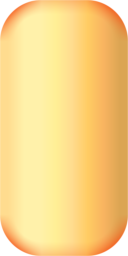
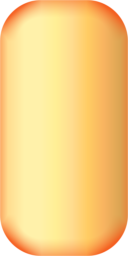
Options pages: bracket A baked (even thickness: anti-aliased rects, reaches lower), names-only dimmed preview, redder scroll handle, sub-option marks (mockup switch)
Claude-Session: https://claude.ai/code/session_015nceCycsuLaNfC7iU5aic3

Changed region(s): [[0.0, 0.125, 0.0312, 0.875], [0.0312, 0.9062, 0.5312, 1.0], [0.0312, 0.0, 0.5312, 0.0938]]

diff --git a/src/kamite/options_overlay.cpp b/src/kamite/options_overlay.cpp
@@ -97,25 +97,26 @@ namespace kamite::options_overlay
         // page's cursor and names after it as the list's are after the screen's edge; its right end at the text area's
         // margin, at most kPageWidth on. Values sit in a block at the right, choices centred in equal slots.
         constexpr float kSplitAspect = 1.595f;
-        constexpr float kBracketX = 240.0f, kBracketTick = 9.0f, kBracketGap = 7.0f, kBracketReach = 12.0f;
+        constexpr float kBracketX = 240.0f, kBracketTick = 9.0f, kBracketGap = 7.0f, kBracketReach = 17.0f;
         constexpr float kPageCursorGap = kLabelX - kCursorX, kPageNameGap = kLabelX - kCursorX + kLabelX - kCursorX;
         constexpr float kPageWidth = 470.0f, kValueBlock = 136.0f, kScrollWidth = 8.0f, kScrollGap = 14.0f;
         constexpr float kSubIndent = 12.0f, kSubCap = 18.5f, kHeaderCap = 13.0f, kHeaderTracking = 3.0f;
         constexpr float kLinesToUnits = 6.0f / 7.0f;
 
-        // The bracket's looks (Look::bracket), each a stack of layers drawn widest first: a thickness in lines and an
-        // offset toward the top / left (the lit side).
+        // The bracket, in the look of the Techniques screen's connector line (K's pick, Nov 13): layers drawn widest
+        // first, each a thickness in lines and an offset toward the top / left (the lit side).
         struct BracketLayer
         {
             uint32_t colour;
             float thickness, lift;
         };
-        constexpr BracketLayer kConnector[] = {{rgba(0xB6, 0x1A, 0x00, 110), 6.0f, 0.0f}, // the Techniques connector: a red fringe,
-                                               {rgba(0xB8, 0x4F, 0x25), 4.0f, 0.0f},      // rust edges,
-                                               {rgba(0xFF, 0xFE, 0x11), 2.0f, 0.0f},      // a yellow core
-                                               {rgba(0xFF, 0xFE, 0xC4), 1.0f, 0.5f}};     // lit cream on top
-        constexpr BracketLayer kCursorLook[] = {{rgba(0xA1, 0x2E, 0x02), 3.2f, 0.0f}, {rgba(0xFF, 0xF8, 0xCE), 1.2f, 0.0f}};
-        constexpr BracketLayer kTanLook[] = {{rgba(0xBC, 0x79, 0x48), 1.6f, 0.0f}};
+        constexpr BracketLayer kBracketLayers[] = {{rgba(0xB6, 0x1A, 0x00, 110), 6.0f, 0.0f}, // a faint red fringe,
+                                                   {rgba(0xB8, 0x4F, 0x25), 4.0f, 0.0f},      // rust edges,
+                                                   {rgba(0xFF, 0xFE, 0x11), 2.0f, 0.0f},      // a yellow core
+                                                   {rgba(0xFF, 0xFE, 0xC4), 1.0f, 0.5f}};     // lit cream on top
+        // A sub-option's elbow from its parent (Look::sub 1): the unselected names' tan.
+        constexpr float kElbowThickness = 1.4f;
+        constexpr float kSubBulletHalf = 3.5f;
 
         // Archivo Narrow fitted to the original's painted row names: horizontal scale, extra tracking (layout units).
         struct Fit
@@ -267,12 +268,8 @@ namespace kamite::options_overlay
             // with short ticks into the page at both ends.
             void bracket(float x, float row, float top, float bottom)
             {
-                const BracketLayer *layers = kConnector;
-                size_t count = std::size(kConnector);
-                if (g_look.bracket == 1)
-                    layers = kCursorLook, count = std::size(kCursorLook);
-                else if (g_look.bracket == 2)
-                    layers = kTanLook, count = std::size(kTanLook);
+                const BracketLayer *layers = kBracketLayers;
+                const size_t count = std::size(kBracketLayers);
                 for (size_t i = 0; i < count; ++i)
                 {
                     const float t = 0.5f * layers[i].thickness, lift = layers[i].lift;
@@ -326,17 +323,20 @@ namespace kamite::options_overlay
 
             // A page's rows between left (its cursor's x) and right (the scroll bar's right edge). selected < 0: no row
             // highlighted.
-            void page(const Page &p, int scroll, int selected, float left, float right)
+            void page(const Page &p, int scroll, int selected, float left, float right, bool namesOnly = false)
             {
                 const float names = left + kPageNameGap - kPageCursorGap, values = right - kScrollWidth - kScrollGap - kValueBlock;
                 float y = kPageTop;
                 scroll = std::clamp(scroll, 0, std::max(p.rowCount - 1, 0));
                 const int shown = pageRowsShown(p, scroll);
+                float parent = kPageTop; // the last option's centre (a sub-option's elbow starts under it)
                 for (int i = scroll; i < scroll + shown; ++i)
                 {
                     const PageRow &row = p.rows[i];
                     const float centre = y + 0.5f * rowHeight(row);
                     y += rowHeight(row);
+                    if (!row.header && !row.sub)
+                        parent = centre;
                     if (row.header)
                     {
                         text(row.name, std::strlen(row.name), labelFont, names, centre + 0.5f * kHeaderCap, kHeaderCap, kNewLabel.scaleX,
@@ -348,11 +348,33 @@ namespace kamite::options_overlay
                         continue;
                     }
                     const bool on = i == selected;
-                    const float x = names + (row.sub ? kSubIndent : 0.0f);
+                    const float indent = row.sub ? (g_look.sub == 0 ? kSubIndent : 2.0f * kSubIndent) : 0.0f;
+                    const float x = names + indent;
+                    if (row.sub && g_look.sub == 1)
+                    {
+                        // An elbow from under the parent's first letter to just before the sub-option's name.
+                        const float t = 0.5f * kElbowThickness, tu = t * kLinesToUnits, ex = names + 5.0f;
+                        rect(ex - tu, parent + 0.5f * kLabelCap + 3.0f, ex + tu, centre + t, kLabel);
+                        rect(ex - tu, centre - t, x - 5.0f, centre + t, kLabel);
+                    }
+                    else if (row.sub && g_look.sub == 2)
+                    {
+                        Pcsx2GsScreenItem item = base();
+                        item.kind = PCSX2GS_SCREEN_TRIANGLE;
+                        item.fill = faded(kLabel);
+                        const float bx = names + kSubIndent - 2.0f;
+                        item.x = space.x(bx - kSubBulletHalf);
+                        item.y = Space::y(centre - kSubBulletHalf * 1.3f);
+                        item.x1 = space.x(bx + kSubBulletHalf);
+                        item.y1 = Space::y(centre);
+                        item.x2 = space.x(bx - kSubBulletHalf);
+                        item.y2 = Space::y(centre + kSubBulletHalf * 1.3f);
+                        items.push_back(item);
+                    }
                     label(row.name, centre, on, x, values - 10.0f - x, row.sub ? kSubCap : kLabelCap);
                     if (on)
-                        cursor(centre, left + (row.sub ? kSubIndent : 0.0f));
-                    if (row.choiceCount <= 0)
+                        cursor(centre, left); // the cursor keeps its column, clear of a sub-option's mark
+                    if (row.choiceCount <= 0 || namesOnly)
                         continue;
                     if (row.choiceCount <= 3)
                     {
@@ -376,7 +398,7 @@ namespace kamite::options_overlay
                     total += rowHeight(p.rows[i]);
                     before += i < scroll ? rowHeight(p.rows[i]) : 0.0f;
                 }
-                if (total > kPageBottom - kPageTop + 0.01f && !g_scrollTrack.empty())
+                if (!namesOnly && total > kPageBottom - kPageTop + 0.01f && !g_scrollTrack.empty())
                 {
                     const float x0 = right - kScrollWidth, top = kPageTop + 2.0f, span = kPageBottom - kPageTop - 4.0f;
                     bar(add(g_scrollTrack.data(), g_scrollTrack.size()), x0, top, right, top + span);
@@ -451,10 +473,11 @@ namespace kamite::options_overlay
             b.bracket(kBracketX, centre, std::min(first, centre) - kBracketReach, std::max(last, centre) + kBracketReach);
             b.page(*page, view.pageScroll, view.pageCursor, kBracketX + kPageCursorGap, pageRight);
         }
-        else if (split && page && g_look.preview != 0)
+        else if (split && page)
         {
-            b.dim = g_look.preview == 2 ? 0.5f : 1.0f;
-            b.page(*page, 0, -1, kBracketX + kPageCursorGap, pageRight);
+            // Before it is opened: the page's names only, at half strength (K, Nov 13).
+            b.dim = 0.5f;
+            b.page(*page, 0, -1, kBracketX + kPageCursorGap, pageRight, true);
             b.dim = 1.0f;
         }
 

diff --git a/tools/options/overlay_preview.py b/tools/options/overlay_preview.py
@@ -1,8 +1,7 @@
 """Preview of the OPTIONS screen's overlay (text, cursor, Yes / No) over the wall, without a Windows build.
 
 python tools/options/overlay_preview.py out.png [--size 1920x1080] [--title] [--cursor N] [--confirm N]
-    [--blur 0.5] [--shadow 0.18] [--page gameplay|interface] [--open] [--row N] [--scroll N] [--bracket 0-2]
-    [--preview 0-2]
+    [--blur 0.5] [--shadow 0.18] [--page gameplay|interface] [--open] [--row N] [--scroll N] [--sub 0-2]
 
 Builds tools/options/overlay_preview.cpp (g++, the repo's ImGui) with the DLL's own drawing code cut from HostStubs.cpp,
 crops resources/options/wall.jpg to the size's shape and draws options_overlay.cpp's list over it. Needs Pillow.
@@ -39,8 +38,7 @@ def main():
     ap.add_argument('--open', action='store_true', help='the cursor in the page')
     ap.add_argument('--row', type=int, default=1, help="the page's cursor row")
     ap.add_argument('--scroll', type=int, default=0)
-    ap.add_argument('--bracket', type=int, default=0, help='0 the Techniques connector, 1 cursor cream and red, 2 tan')
-    ap.add_argument('--preview', type=int, default=1, help='a page before opening: 0 none, 1 as is, 2 dimmed')
+    ap.add_argument('--sub', type=int, default=1, help='sub-options: 0 indent only, 1 elbow, 2 small arrow')
     a = ap.parse_args()
     w, h = map(int, a.size.split('x'))
     work = tempfile.mkdtemp()
@@ -64,7 +62,7 @@ def main():
     subprocess.check_call([exe, raw_in, str(w), str(h), raw_out, '0' if a.title else '1', str(a.cursor), str(a.confirm),
                            str(a.blur), str(a.shadow), os.path.join(fonts, 'ArchivoNarrow-SemiBold.ttf'),
                            os.path.join(fonts, 'DejaVuSans-Bold.ttf'), title] + bars +
-                          [str(page), '1' if a.open else '0', str(a.row), str(a.scroll), str(a.bracket), str(a.preview)])
+                          [str(page), '1' if a.open else '0', str(a.row), str(a.scroll), str(a.sub)])
     Image.frombytes('RGB', (w, h), open(raw_out, 'rb').read()).save(a.out)
 
 if __name__ == '__main__':

diff --git a/thirdparty/pcsx2-gs/compat/HostStubs.cpp b/thirdparty/pcsx2-gs/compat/HostStubs.cpp
@@ -962,13 +962,19 @@ namespace
         if (b.x <= a.x)
             return;
         const float stroke = (item.stroke >> 24) ? item.stroke_width * h : 0.0f;
+        // Anti-aliased, so a thickness that isn't a whole number of pixels reads the same lying or standing.
+        const auto box = [&](ImVec2 p, ImVec2 q, ImU32 colour)
+        {
+            const ImVec2 corners[4] = {p, ImVec2(q.x, p.y), q, ImVec2(p.x, q.y)};
+            list->AddConvexPolyFilled(corners, 4, colour);
+        };
         if (item.shadow >> 24)
-            list->AddRectFilled(ImVec2(a.x - stroke + item.shadow_x * h, a.y - stroke + item.shadow_y * h),
-                                ImVec2(b.x + stroke + item.shadow_x * h, b.y + stroke + item.shadow_y * h), item.shadow);
+            box(ImVec2(a.x - stroke + item.shadow_x * h, a.y - stroke + item.shadow_y * h),
+                ImVec2(b.x + stroke + item.shadow_x * h, b.y + stroke + item.shadow_y * h), item.shadow);
         if (stroke > 0.0f)
-            list->AddRectFilled(ImVec2(a.x - stroke, a.y - stroke), ImVec2(b.x + stroke, b.y + stroke), item.stroke);
+            box(ImVec2(a.x - stroke, a.y - stroke), ImVec2(b.x + stroke, b.y + stroke), item.stroke);
         if (item.fill >> 24)
-            list->AddRectFilled(a, b, item.fill);
+            box(a, b, item.fill);
     }
 
     // An image file, loaded on first use and shrunk by a whole factor (a box filter, alpha-weighted) to about the size

diff --git a/tools/options/make_scrollbar.py b/tools/options/make_scrollbar.py
@@ -61,7 +61,9 @@ def thumb():
     # Orange-red rims on the rounded ends only (where the edge curves), fading inward over about a texel.
     end = np.clip((RADIUS - np.minimum(y, H - y)) / RADIUS, 0, 1)
     curve = np.clip((np.abs(x - W / 2) - (W / 2 - RADIUS)) / RADIUS, 0, 1)
-    rim = np.clip(1 + d / 0.9, 0, 1) * np.clip(end * (0.35 + 1.5 * curve), 0, 1) * 0.85
+    # (K, Nov 13: a touch more red than the first try) and a faint one down the long sides.
+    rim = np.clip(1 + d / 1.1, 0, 1) * np.clip(end * (0.5 + 1.5 * curve), 0, 1)
+    rim = np.maximum(rim, np.clip(1 + d / 0.5, 0, 1) * 0.4)
     rgb = rgb * (1 - rim[..., None]) + hexcol('f55a1c') * rim[..., None]
     alpha = np.clip(0.5 - d * S, 0, 1)  # about a pixel of anti-aliasing at the final size
     return downsample(np.dstack([rgb / 255, alpha]))

diff --git a/src/kamite/options_overlay.h b/src/kamite/options_overlay.h
@@ -66,10 +66,9 @@ namespace kamite::options_overlay
         float blur = 0.5f;         // softening, in lines (PS2 pixels)
         float shadowAlpha = 0.18f; // a barely visible drop shadow (the original has none)
         float shadowOffset = 1.0f; // lines
-        // Mockup switches while K picks (temporary): the bracket's look (0 the Techniques connector, 1 the cursor's
-        // cream and red, 2 flat tan), and the page beside the list before it is opened (0 none, 1 as is, 2 dimmed).
-        int bracket = 0;
-        int preview = 1;
+        // Mockup switch while K picks (temporary): how a sub-option shows it belongs to the option above (0 indent
+        // only, 1 a tan elbow from its parent, 2 a small arrow).
+        int sub = 1;
     };
     Look &look();
 

diff --git a/tools/options/overlay_preview.cpp b/tools/options/overlay_preview.cpp
@@ -143,8 +143,7 @@ int main(int argc, char **argv)
     v.inPage = argc > 16 && atoi(argv[16]) != 0;
     v.pageCursor = argc > 17 ? atoi(argv[17]) : 0;
     v.pageScroll = argc > 18 ? atoi(argv[18]) : 0;
-    look().bracket = argc > 19 ? atoi(argv[19]) : 0;
-    look().preview = argc > 20 ? atoi(argv[20]) : 1;
+    look().sub = argc > 19 ? atoi(argv[19]) : 1;
     std::vector<Pcsx2GsScreenItem> items;
     std::string strings;
     build(v, items, strings);
